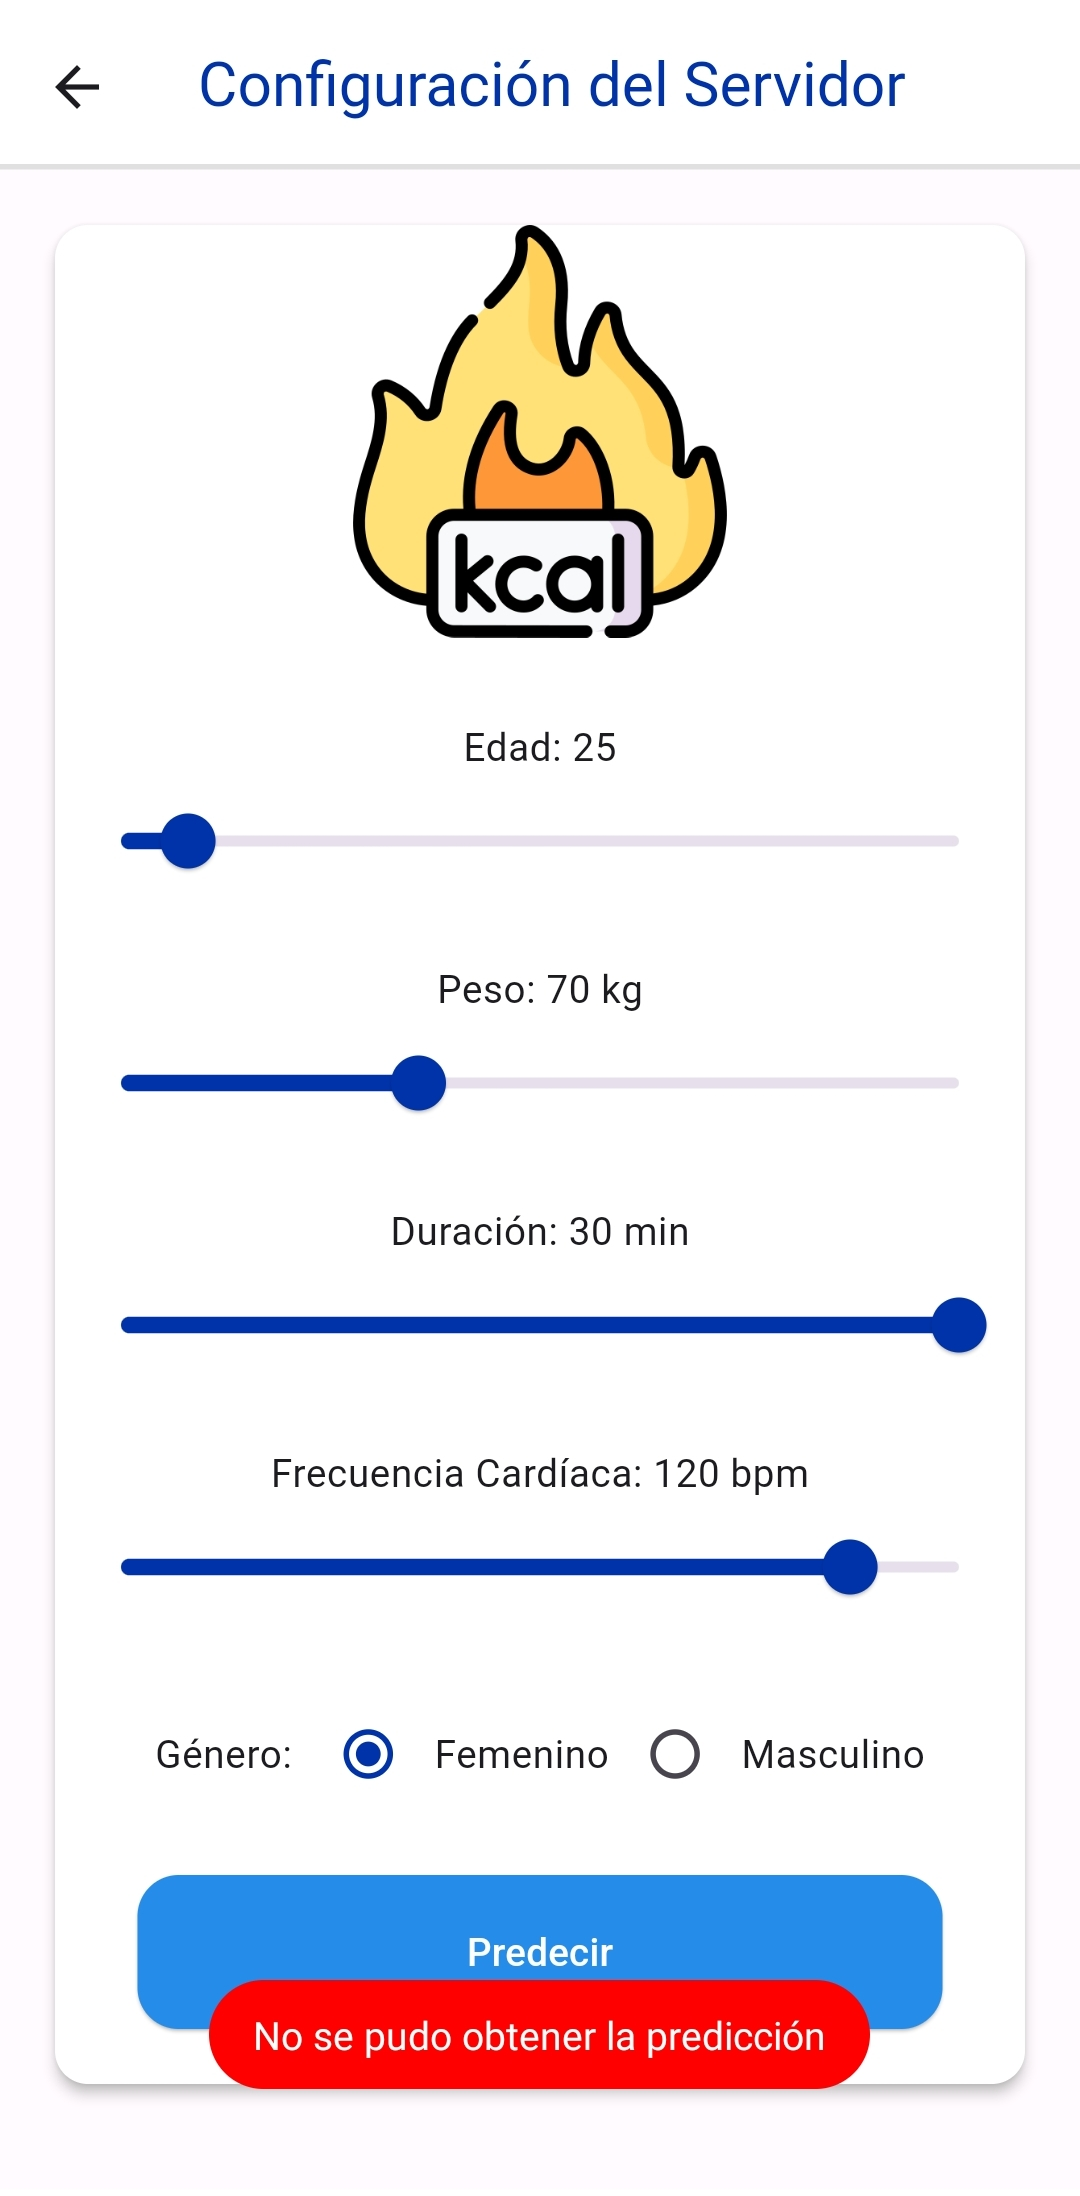
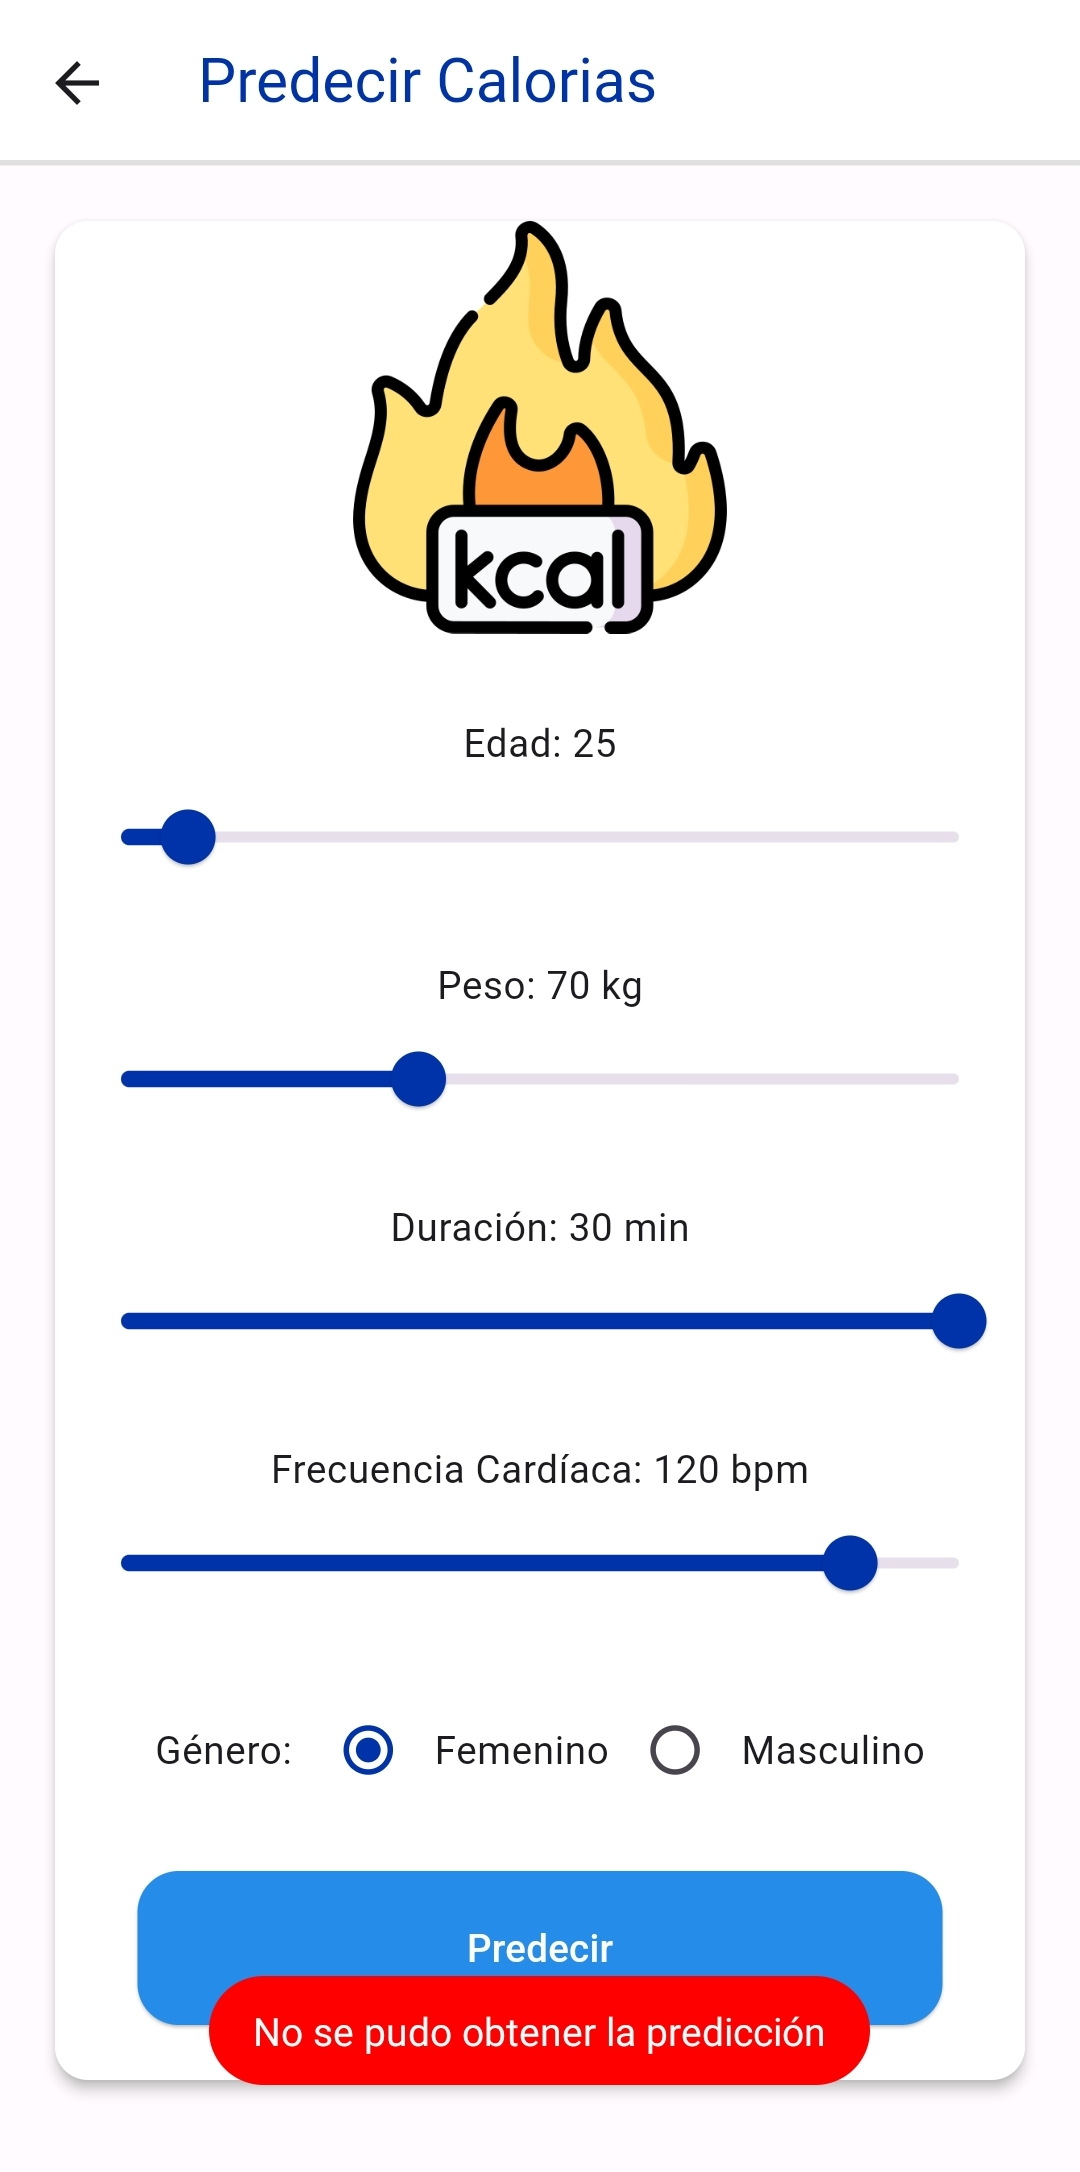
Actualización de imágenes README y ajustar el título de PredictionScreen
- Actualización de las imágenes utilizadas en el README.md para mayor claridad y mejor representación del proyecto.
- Ajuste del título de la pantalla PredictionScreen para una mejor comprensión y consistencia con el resto de la aplicación.
- Mejoras menores en la documentación para reflejar los cambios recientes.

diff --git a/lib/config/parameters/parameters.dart b/lib/config/parameters/parameters.dart
@@ -1,6 +1,7 @@
 class Parameters {
   static const String nameApp = 'Predicción de Calorías';
   static const String serverConfiguration = 'Configuración del Servidor';
+  static const String predictionTitle = 'Predecir Calorias';
   static const String serverIP = 'IP del Servidor';
   static const String serverPort = 'Puerto del Servidor';
   static const String continueButton = 'Continuar';

diff --git a/lib/presentation/screens/prediction_screen.dart b/lib/presentation/screens/prediction_screen.dart
@@ -236,7 +236,7 @@ class _PredictionScreenState extends State<PredictionScreen> {
   AppBar customAppbar() {
     return AppBar(
       title: const Text(
-        Parameters.serverConfiguration,
+        Parameters.predictionTitle,
         style: TextStyle(
           color: ColorConstants.appbarText,
         ),
